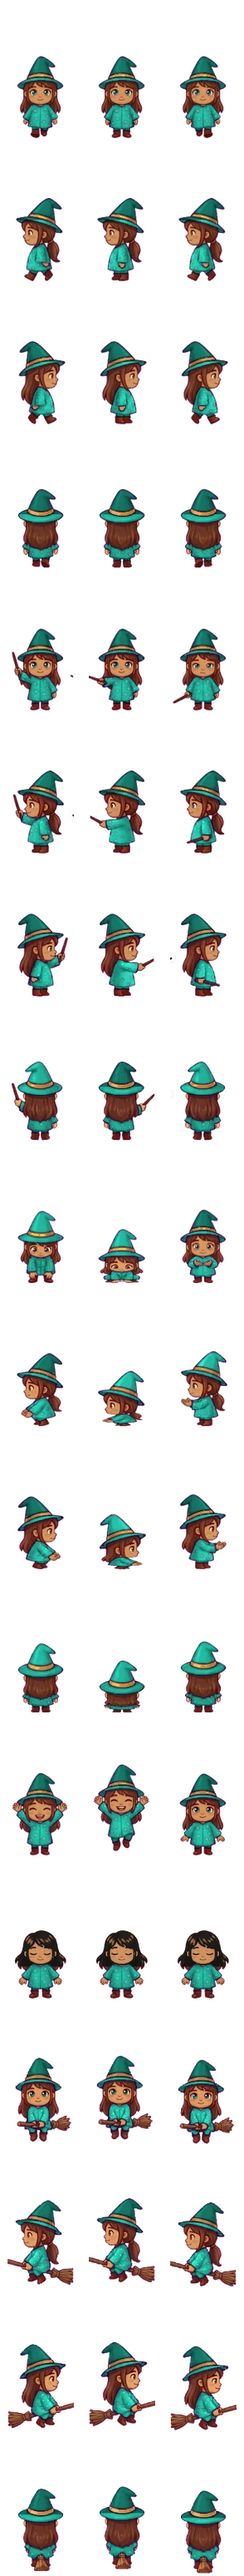
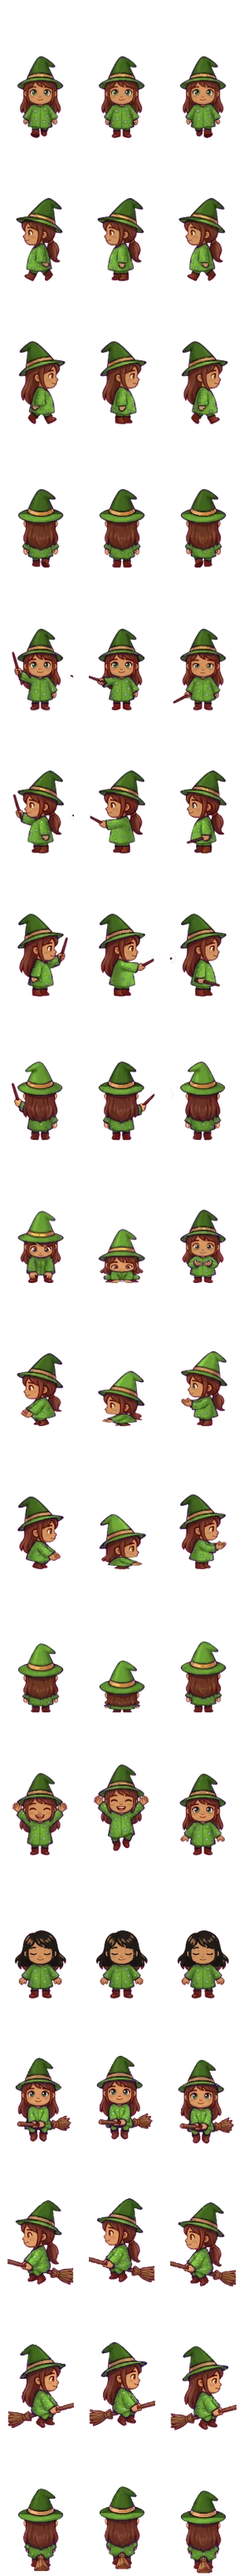
Propose the green look first, for a boy and for a girl (D295)
The owner asked for green as the default colour of the wizard and of the
witch, because it reads best on the scenes and stands apart from the other
figures, and for the green witch's robe to be the green wizard's. The moss
look is the first of the boys and the teal one the first of the girls, the
teal robe and hat take moss's green, and the girl's sheet and portrait are
recoloured to it. The ids stay, so a saved wizard keeps its look.

diff --git a/app/src/engine/looks.ts b/app/src/engine/looks.ts
@@ -29,7 +29,20 @@ const SKIN = {
   dark: '#8d5524',
 };
 
+/** The first look of each gender is the one the creator proposes (D295): the green
+ * robe, a boy's and a girl's alike, which reads best on every scene and stands apart
+ * from the other figures. An id is the word saved games keep, not the robe's colour. */
 export const LOOKS: readonly Look[] = [
+  {
+    id: 'moss',
+    gender: 'boy',
+    skin: SKIN.paler,
+    hair: '#e0c060',
+    hairStyle: 'short',
+    robe: '#5c8a2e',
+    hat: '#3d5e1d',
+    band: '#ffd43b',
+  },
   {
     id: 'amber',
     gender: 'boy',
@@ -46,8 +59,8 @@ export const LOOKS: readonly Look[] = [
     skin: SKIN.brown,
     hair: '#1f1a17',
     hairStyle: 'long',
-    robe: '#1f9e89',
-    hat: '#146b5d',
+    robe: '#5c8a2e',
+    hat: '#3d5e1d',
     band: '#ffd43b',
   },
   {
@@ -69,16 +82,6 @@ export const LOOKS: readonly Look[] = [
     robe: '#d6517d',
     hat: '#9c2f55',
     band: '#ffe08a',
-  },
-  {
-    id: 'moss',
-    gender: 'boy',
-    skin: SKIN.paler,
-    hair: '#e0c060',
-    hairStyle: 'short',
-    robe: '#5c8a2e',
-    hat: '#3d5e1d',
-    band: '#ffd43b',
   },
   {
     id: 'sky',

diff --git a/app/e2e/wizard.spec.ts b/app/e2e/wizard.spec.ts
@@ -80,7 +80,7 @@ test('a name of the game\'s own is refused, and a boy\'s looks are a boy\'s', as
   await page.goto('/#wizard');
   await page.locator('#wizard-gender [data-value="boy"]').click();
   await expect(page.locator('#wizard-looks .radio')).toHaveCount(4);
-  expect(await portraitShown(page, '#wizard-preview')).toBe('wizard-amber');
+  expect(await portraitShown(page, '#wizard-preview')).toBe('wizard-moss');
   for (const name of ['Dask', 'zelim', 'Wizard']) {
     await page.locator('#wizard-name').fill(name);
     await expect(page.locator('#wizard-name-taken')).toBeVisible();

diff --git a/docs/dev/architecture.md b/docs/dev/architecture.md
@@ -4750,3 +4750,17 @@ one overturns stays, marked as superseded.
   two sets of colours on one page, a figure enlarged from its small sprite, and people
   on a level, a lesson or the map, where they would come between the child and what
   they are doing (D193).
+- **D295 — The look the creator proposes is the green one.** Decided 2026-11-22 by the
+  owner (*el color por defecto del mago sea el verde. Y el de la maga también*; *que la
+  maga verde (la que será por defecto) tenga la túnica de color más parecido al del mago
+  verde; por defecto ese sea el color, porque se ve mejor y se distingue bien del resto*).
+  The first look of each gender in `LOOKS` (`engine/looks.ts`) is the one the creator
+  shows before the child chooses (D36, D291), and it is the green robe: `moss` for a boy,
+  `teal` for a girl, both with the robe `#5c8a2e`, the hat `#3d5e1d` and the yellow band.
+  A look's id is the word a saved game keeps, not its robe's colour, so a wizard made
+  before keeps its look by its id; the girl's sheet and portrait
+  (`content/art/figures/wizard-teal.webp`, `content/art/portraits/wizard-teal.webp`) are
+  the same drawings with the robe and the hat in the boy's green. The friends' colours
+  follow the wizard's look as they do for any other (D90, D283). Rules out a default
+  look that differs between a boy and a girl in its robe, and a look's id renamed, which
+  would lose the look of the games saved.
